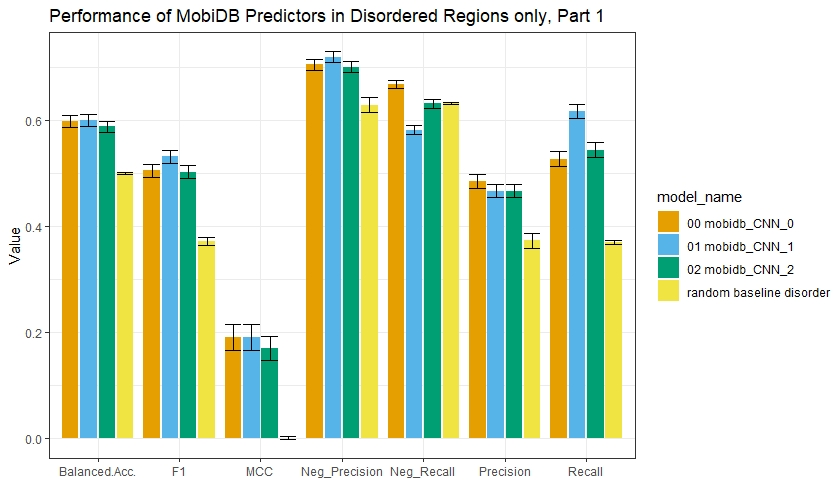
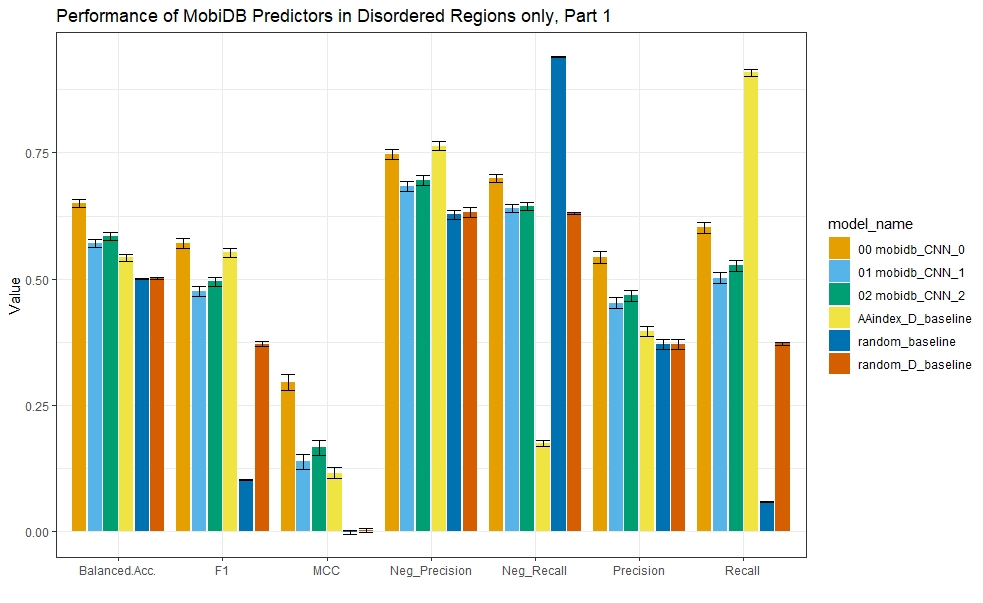
new performance visualisation on val

diff --git a/src/performance_assessment.py b/src/performance_assessment.py
@@ -1011,16 +1011,16 @@ if __name__ == '__main__':
                12.0: [0.63, 0.63, 0.63, 0.63, 0.63],
                22.0: [0.25, 0.2, 0.25, 0.25, 0.25]
                }
-    names = {0.0: "mobidb_CNN_0",
-             0.1: "mobidb_CNN_1",   # best model trained on all residues?? -> retrained
+    names = {0.0: "mobidb_CNN_0",   # 1: currently best model
+             0.1: "mobidb_CNN_1",
              0.2: "mobidb_CNN_2",
              1.0: "mobidb_FNN_0",
              1.1: "mobidb_FNN_1",
-             1.2: "mobidb_FNN_2",
+             1.2: "mobidb_FNN_2",   # 2: best FNN
              1.3: "mobidb_FNN_3",
              1.4: "mobidb_FNN_4",
              1.5: "mobidb_FNN_5",
-             2.0: "mobidb_D_CNN_0",     # currently best model
+             2.0: "mobidb_D_CNN_0",     # 3: best model trained on disorder_only
              2.0005: "mobidb_D_CNN_0_lr0005",
              2.001: "mobidb_D_CNN_0_lr001",
              2.02: "mobidb_D_CNN_0_d2",
@@ -1032,7 +1032,7 @@ if __name__ == '__main__':
              2.2: "mobidb_D_CNN_2",
              3.0: "mobidb_D_FNN_0",
              3.1: "mobidb_D_FNN_1",
-             3.2: "mobidb_D_FNN_2",     # best FNN
+             3.2: "mobidb_D_FNN_2",     # 4: best FNN on disorder only
              3.3: "mobidb_D_FNN_3",
              3.4: "mobidb_D_FNN_4",
              10.0: "random_binary",
